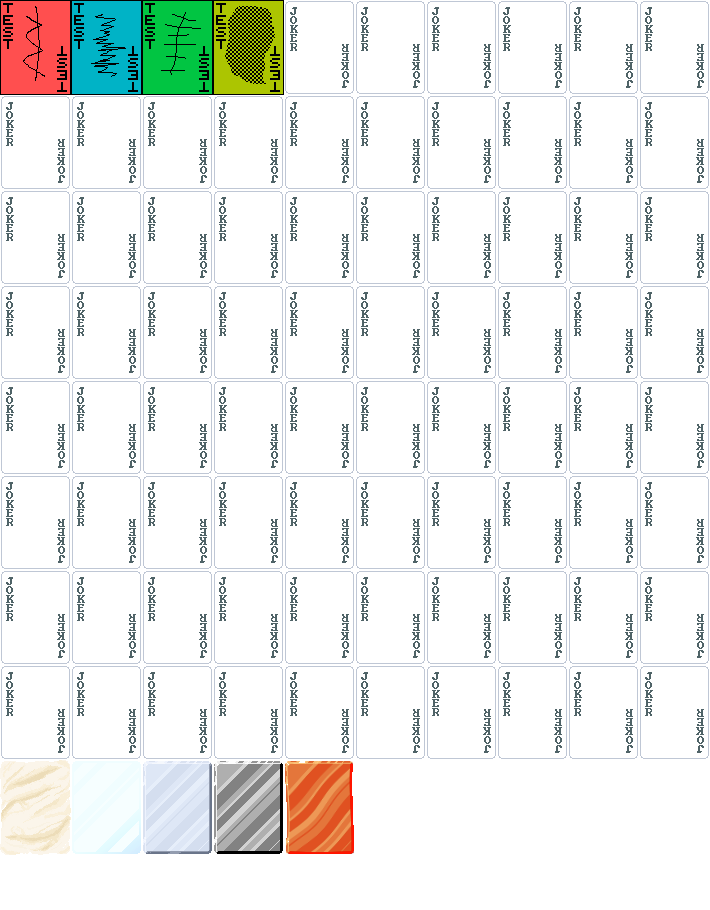
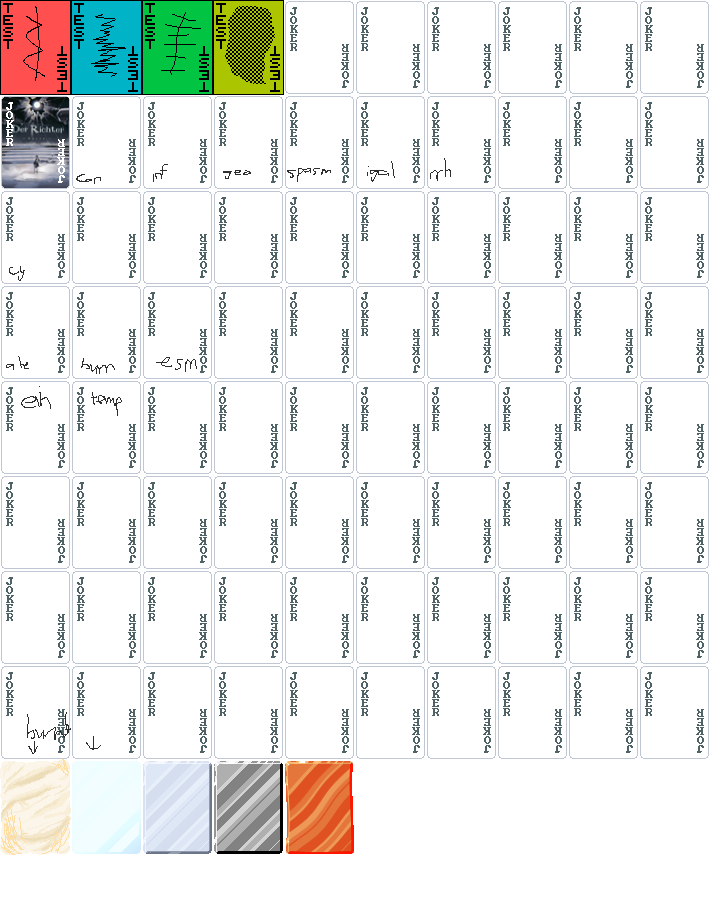
Adjust jokers art and update README.md

diff --git a/README.md b/README.md
@@ -1,21 +1,24 @@
 # Where are the Stars Above Us (WatSAU) Mod
 
-A Balatro Mod where I added random or broken jokers from rhythm games 
+A Balatro Mod where I added random or broken jokers with rhythm game references
 
-WIP description
+
 
 # Additions
 
-- 4 jokers
-- 2 blinds
-- x new consumable types
-- new rarity
-
-
+- 7 blinds (5 boss showdowns and 2 normal boss),
+- 15 jokers (1 unobtainable for now),
+- 1 new rarity (Stellar, higher than Legendary),
+- 3 enhancements,
+- 5 challenges
 
 # Installation Guide
 
+1. Download the [latest release](https://github.com/M3galodn81/WatSAU/releases/) (click "Source code (zip)" at the bottom of the page)
+2. Extract the downloaded zip file.
+3. Put the extracted files in `C:\Users\USERNAME\AppData\Roaming\Balatro\Mods`
+
 # License
 
-### All assets are license under Creative Commons Attribution-NonCommercial-ShareAlike 4.0 International (CC BY-NC-SA 4.0)
+### All assets here are temporary and subjected to changed later
 ### The code is license under GNU General Public License v3.0 (GPL-3.0)

diff --git a/todo.md b/todo.md
@@ -1,6 +1,6 @@
 # Blinds
 - [ ] insert two word boss songs
-- Disruptor Array
+- Disruptor Array /
 - Freedom Dive
 - Ultimate Force
 
@@ -18,8 +18,8 @@ Anomaly
     - Creation      :
     - Catastrophe   :
 
-    - Light 
-    - Conflict
+    - Light         :
+    - Conflict      :
 
 - Note
 
@@ -37,7 +37,7 @@ Anomaly
 - [ ] insert almost every original song from every RG EXCEPT every char in Rayark's Games (cuz personal reasons)
 - [ ] no artists 
 
-- Spasmodic
+- Spasmodic /
 - Igallta
 - Rrharil
 
@@ -49,7 +49,7 @@ Anomaly
 - Vulcānus
 
 - Stasis
-- cyanine fix
+- cyanine
 - You are the Miserable
 - Astaroth
 - Nyarlathotep's Dreamland
